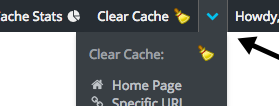
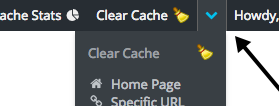
Improving split option. See: websharks/zencache#596

diff --git a/src/includes/closures/Plugin/AdminBarUtils.php b/src/includes/closures/Plugin/AdminBarUtils.php
@@ -152,7 +152,7 @@ $self->adminBarMenu = function (\WP_Admin_Bar &$wp_admin_bar) use ($self) {
                     'id'     => GLOBAL_NS.'-clear-options-container',
 
                     'title' => '<div class="-label">'.
-                                '   <span class="-text">'.__('Clear Cache:', SLUG_TD).'</span>'.
+                                '   <span class="-text">'.__('Clear Cache', SLUG_TD).'</span>'.
                                 '</div>'.
 
                                 '<ul class="-options">'.
